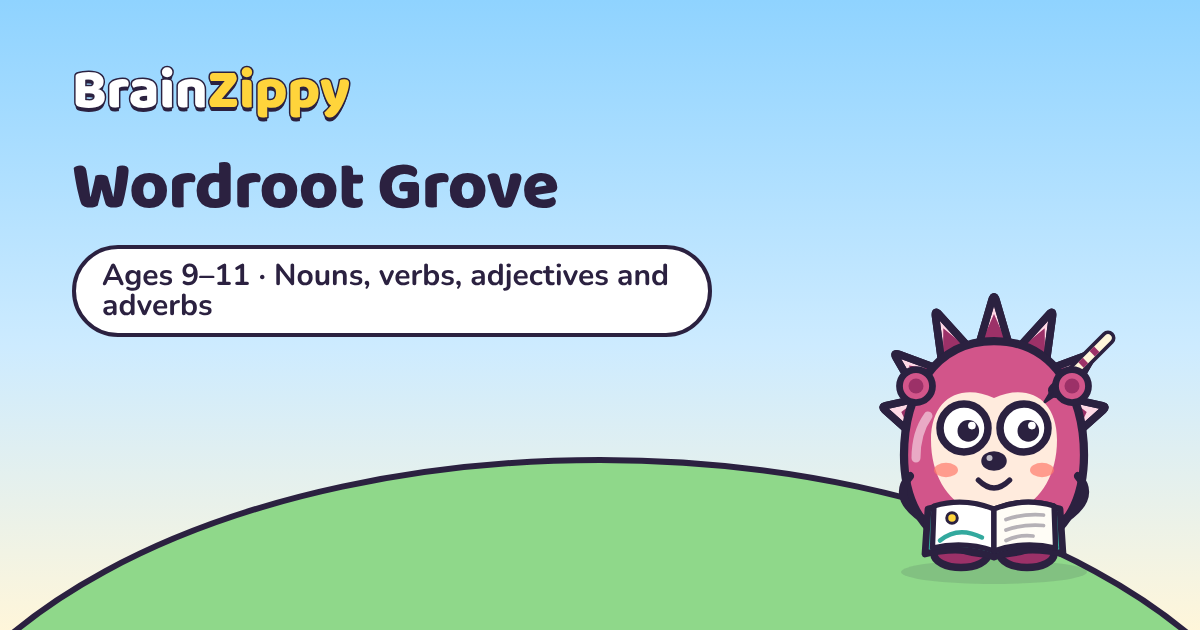
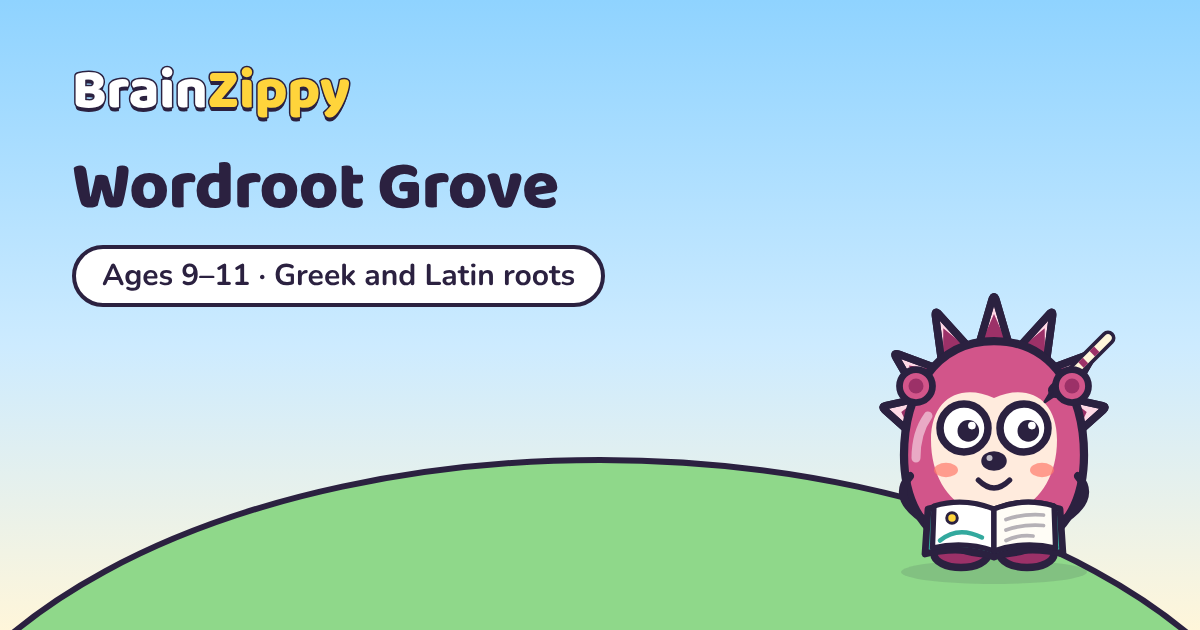
Wordroot Grove: OG card names roots; as-built notes for the review fixes
Claude-Session: https://claude.ai/code/session_01BFkHUCBf4mW8F3hpui3mxn

Changed region(s): [[0.0617, 0.3619, 0.6167, 0.5429]]

diff --git a/src/content/packs/english-wordroot-grove/index.ts b/src/content/packs/english-wordroot-grove/index.ts
@@ -26,7 +26,7 @@ const pack: ContentPack = {
       id: "wordroot-grove",
       subject: "english",
       topic: "english.vocab",
-      skills: ["english.vocab.affix", "english.grammar.word-class", "english.vocab.roots", "english.vocab.context", "english.grammar.apostrophe", "english.grammar.confused-words"],
+      skills: ["english.vocab.affix", "english.vocab.roots", "english.grammar.word-class", "english.vocab.context", "english.grammar.apostrophe", "english.grammar.confused-words"],
       ages: [9, 11],
       maxLevel: 9,
       title: "Wordroot Grove",

diff --git a/docs/worlds/wordroot-grove.md b/docs/worlds/wordroot-grove.md
@@ -155,4 +155,6 @@ Modes alternate by `index % 2`; review items replace `index % 4 === 3` from L3 u
 - *Blocklist:* reuses Paper Boat Post's `blocklist.ts` (imported); it should move to a shared module now that two worlds use it.
 - *Standards text* for L.2.2.C, L.3.1.A, L.3.2.D, L.3.4.B, L.4.1.G, L.4.4.A, L.4.4.B on the public site was written from the published wording but could not be re-checked online from this machine; verify before release.
 
+**After the independent reviews (2026-11-24).** Content: the family read-aloud says "Child means a young person" (not "To child…"); microphone → microbe (micro + "be" from bio); describe = write *down*; "Every ___ in the dance" offers *moved*, not the noun *move*; "two birds' wings" replaces "nests" (bird's nest is a compound); level-6 passages end in neutral setting so only one chunk is a clue; "which means" items are restatement clues; holtip, rozzick (was grevin), pentrop, klendor reworded; "Jonah is quiet" replaces a trope-adjacent line; invented words that resemble names or brands (sprock, fennick, ravvle, quosset, splott, grevin) → wobrin, stelvin, pruvel, whindop, tirrow, rozzick, and a proper-noun/brand list is now part of the collision test; frames "I noticed the ___." / "It is very ___."; comma splice and "cannot" fixed; its-praise mapping corrected. Board: the model state is in the aria-labels (", the answer", ", a clue", "goes on the … branch") and the worked chain is a polite live region; the sort model places all cards but the last, which the child places; contrast and an 18 px minimum for every hint label; tall boards spread out (gap, wider leaf, taller answers). Site: L.3.4.C, L.2.1.E, L.5.4.A, L.5.4.B added; the English subject page covers 3–11; the why-text cites Kamil et al. 2008 (grades 4–12) instead of Foorman 2016; the OG card names Greek and Latin roots.
+
 **Open.** ELA-teacher review of every gloss, root meaning (against a dictionary etymology), passage and distractor; creative-director review of the grove art and badge; human listening check of the 485 clips (TTS on invented words and on "ful", "less" in part cards); whether options should get clips after all.
